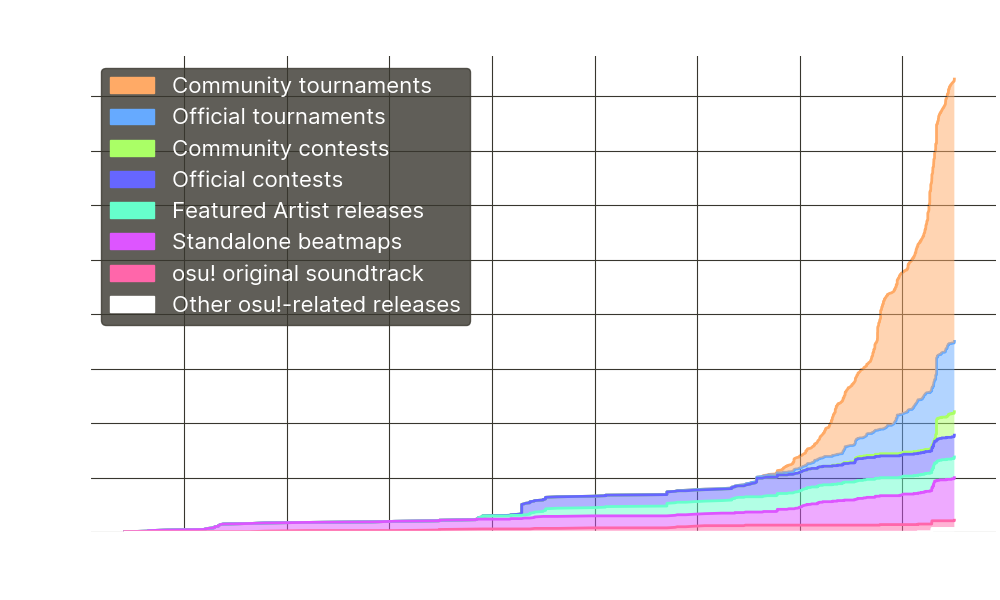
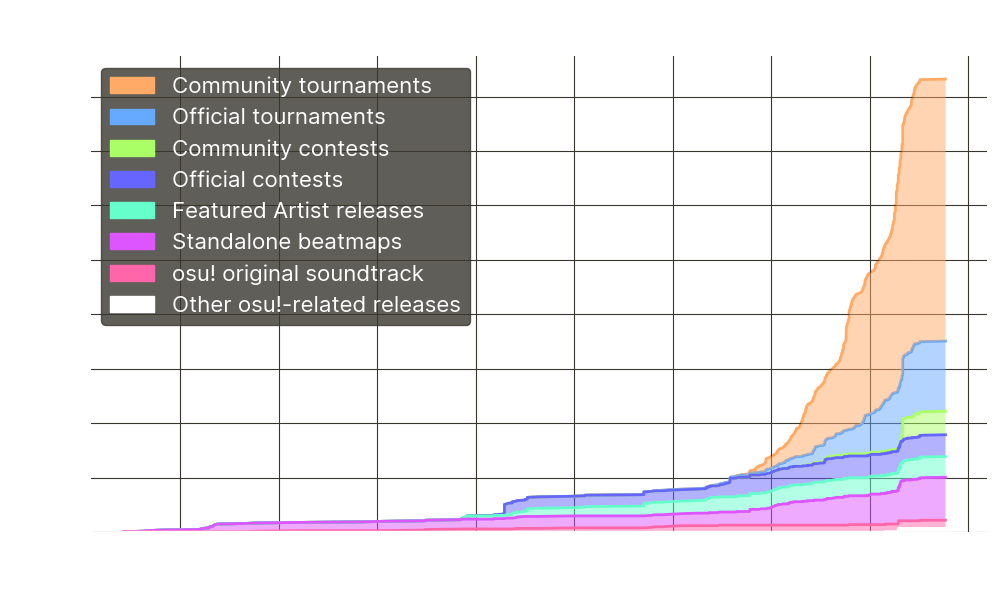
one more track

Changed region(s): [[0.093, 0.12, 0.992, 0.9], [0.372, 0.84, 0.403, 0.87], [0.186, 0.87, 0.217, 0.9]]

diff --git a/wiki/Community/Bespoke_music/en.md b/wiki/Community/Bespoke_music/en.md
@@ -17,7 +17,7 @@ Conversely, all other songs in this list are not officially licensed by the game
 
 ## Statistics
 
-There is currently a total of **831** documented songs made within osu!.
+There is currently a total of **832** documented songs made within osu!.
 
 ![Graph of bespoke music over time](img/bespoke-music-over-time.png?20250107)
 
@@ -219,7 +219,7 @@ These songs are part of the [tomspicy osu! collection 01 EP](https://osu.ppy.sh/
 | [![YouTube](/wiki/shared/link/YouTube.png)](https://www.youtube.com/watch?v=EC0sBNEl7SA "YouTube") | [![osu! original](/wiki/shared/link/original.png)](https://osu.ppy.sh/beatmaps/artists/tracks?artist=Rohi&query=%22Gllensista%22 "osu! original") | Rohi - Gllensista | [#1](https://osu.ppy.sh/beatmapsets/2091797) | Finals FM2 |
 | [![YouTube](/wiki/shared/link/YouTube.png)](https://www.youtube.com/watch?v=NiAblJoN4Aw "YouTube") | [![osu! original](/wiki/shared/link/original.png)](https://osu.ppy.sh/beatmaps/artists/tracks?artist=seleP&query=%22Sara%22 "osu! original") | seleP feat. Lily - Sara | [#1](https://osu.ppy.sh/beatmapsets/2088549) | Semifinals NM3 |
 | [![SoundCloud](/wiki/shared/link/SoundCloud.png)](https://soundcloud.com/sorry-about-my-face/the-last-straw "SoundCloud") [![Bandcamp](/wiki/shared/link/Bandcamp.png)](https://sorryaboutmyface.bandcamp.com/track/the-last-straw "Bandcamp") | [![osu! original](/wiki/shared/link/original.png)](https://osu.ppy.sh/beatmaps/artists/tracks?artist=Sorry%20about%20my%20face&query=%22The%20last%20straw%22 "osu! original") | Sorry about my face - The last straw | [#1](https://osu.ppy.sh/beatmapsets/2088563) | Semifinals HD3 |
-| [![SoundCloud](/wiki/shared/link/SoundCloud.png)](https://soundcloud.com/espitz/novo-horizonte "SoundCloud") [![YouTube](/wiki/shared/link/YouTube.png)](https://www.youtube.com/watch?v=QGH_EGhOdqI "YouTube") [![Spotify](/wiki/shared/link/Spotify.png)](https://open.spotify.com/track/5ZyupZRiVCdwPOzvtSGF68 "Spotify") | [![osu! original](/wiki/shared/link/original.png)](https://osu.ppy.sh/beatmaps/artists/tracks?artist=Sound%20piercer&query=%22NOVO%20HORIZONTE%22 "osu! original") | Sound Piercer "ESPITZ" - NOVO HORIZONTE | [#1](https://osu.ppy.sh/beatmapsets/2091818) | Finals FM3 |
+| [![SoundCloud](/wiki/shared/link/SoundCloud.png)](https://soundcloud.com/espitz/novo-horizonte "SoundCloud") [![YouTube](/wiki/shared/link/YouTube.png)](https://www.youtube.com/watch?v=QGH_EGhOdqI "YouTube") [![Spotify](/wiki/shared/link/Spotify.png)](https://open.spotify.com/track/5ZyupZRiVCdwPOzvtSGF68 "Spotify") | [![osu! original](/wiki/shared/link/original.png)](https://osu.ppy.sh/beatmaps/artists/tracks?artist=Sound%20piercer&query=%22NOVO%20HORIZONTE%22 "osu! original") | Sound piercer "ESPITZ" - NOVO HORIZONTE | [#1](https://osu.ppy.sh/beatmapsets/2091818) | Finals FM3 |
 | [![SoundCloud](/wiki/shared/link/SoundCloud.png)](https://soundcloud.com/sydosys/wandered "SoundCloud") [![Spotify](/wiki/shared/link/Spotify.png)](https://open.spotify.com/album/2LKaW5T8EGlRxzueuxf46C "Spotify") [![Bandcamp](/wiki/shared/link/Bandcamp.png)](https://sydosys.bandcamp.com/track/wandered "Bandcamp") | [![osu! original](/wiki/shared/link/original.png)](https://osu.ppy.sh/beatmaps/artists/tracks?artist=Sydosys&query=%22Wandered%22 "osu! original") | Sydosys - Wandered | [#1](https://osu.ppy.sh/beatmapsets/2085296) | Quarterfinals NM3 |
 |  | [![osu! original](/wiki/shared/link/original.png)](https://osu.ppy.sh/beatmaps/artists/tracks?artist=Toromaru&query=%22Ebb%20Tide%22 "osu! original") | Toromaru - Ebb Tide | [#1](https://osu.ppy.sh/beatmapsets/2082040) | Round of 16 FM1 |
 | [![SoundCloud](/wiki/shared/link/SoundCloud.png)](https://soundcloud.com/zxnx/everythinginthisworldwilleventuallydieandperished "SoundCloud") [![YouTube](/wiki/shared/link/YouTube.png)](https://www.youtube.com/watch?v=wG95dDA3qHE "YouTube") [![Bandcamp](/wiki/shared/link/Bandcamp.png)](https://zxnx.bandcamp.com/track/fana "Bandcamp") | [![osu! original](/wiki/shared/link/original.png)](https://osu.ppy.sh/beatmaps/artists/tracks?artist=ZxNX&query=%22Fana%22 "osu! original") | ZxNX - Fana | [#1](https://osu.ppy.sh/beatmapsets/2095138) | Grand Finals NM4 |
@@ -865,7 +865,7 @@ These songs are part of the [tomspicy osu! collection 01 EP](https://osu.ppy.sh/
 | [![SoundCloud](/wiki/shared/link/SoundCloud.png)](https://soundcloud.com/user-598209031/asdfgadfg "SoundCloud") [![YouTube](/wiki/shared/link/YouTube.png)](https://www.youtube.com/watch?v=G3aznM6DwrU "YouTube") | [![osu! original](/wiki/shared/link/original.png)](https://osu.ppy.sh/beatmaps/artists/tracks?artist=Doomsday&query=%22TGGT%22 "osu! original") | Doomsday - TGGT | [#1](https://osu.ppy.sh/beatmapsets/2198890) | Group Stage NM3 |
 | [![SoundCloud](/wiki/shared/link/SoundCloud.png)](https://soundcloud.com/ludicin/echoes-of-memoria "SoundCloud") [![YouTube](/wiki/shared/link/YouTube.png)](https://www.youtube.com/watch?v=IjUqxihQKRI "YouTube") |  | Ludicin - Echoes of Memoria | [#1](https://osu.ppy.sh/beatmapsets/2214238) | Grand Finals tiebreaker |
 | [![SoundCloud](/wiki/shared/link/SoundCloud.png)](https://soundcloud.com/normalmusiccc/chromatic-dysfunktion "SoundCloud") |  | NormalM - Chromatical Dysfunktion | [#1](https://osu.ppy.sh/beatmapsets/2209723) | Semifinals NM4 |
-| [![YouTube](/wiki/shared/link/YouTube.png)](https://www.youtube.com/watch?v=ka0wBtzeEsI "YouTube") [![Spotify](/wiki/shared/link/Spotify.png)](https://open.spotify.com/album/7eAUDZqZC4iDSdDpHRUHbu "Spotify") |  | seatrus - Metal Globe[^fa] | [#1](https://osu.ppy.sh/beatmapsets/2214194) | Grand Finals NM3 |
+| [![YouTube](/wiki/shared/link/YouTube.png)](https://www.youtube.com/watch?v=ka0wBtzeEsI "YouTube") [![Spotify](/wiki/shared/link/Spotify.png)](https://open.spotify.com/album/7eAUDZqZC4iDSdDpHRUHbu "Spotify") | [![osu! original](/wiki/shared/link/original.png)](https://osu.ppy.sh/beatmaps/artists/tracks?artist=seatrus&query=%22Metal%20Globe%22 "osu! original") | seatrus - Metal Globe | [#1](https://osu.ppy.sh/beatmapsets/2214194) | Grand Finals NM3 |
 | [![SoundCloud](/wiki/shared/link/SoundCloud.png)](https://soundcloud.com/sydosys/coriolis "SoundCloud") [![Bandcamp](/wiki/shared/link/Bandcamp.png)](https://sydosys.bandcamp.com/track/coriolis "Bandcamp") |  | Sydosys - Coriolis[^fa] | [#1](https://osu.ppy.sh/beatmapsets/2202795) | Round of 16 & Quarterfinals FM3 |
 
 #### ![](/wiki/shared/mode/osu.png) [The Roundtable II](https://osu.ppy.sh/community/forums/topics/1789714)
@@ -1884,6 +1884,7 @@ These songs are part of the [tomspicy osu! collection 01 EP](https://osu.ppy.sh/
 |  |  | Ketchup - ProjectUnreality | [#1](https://osu.ppy.sh/beatmapsets/9077) |
 | [![SoundCloud](/wiki/shared/link/SoundCloud.png)](https://soundcloud.com/krimek/mondlichtzauber "SoundCloud") [![YouTube](/wiki/shared/link/YouTube.png)](https://www.youtube.com/watch?v=lPjaITQmIXw "YouTube") [![Spotify](/wiki/shared/link/Spotify.png)](https://open.spotify.com/album/5dm2l9kuKD77RquBGD7C5a "Spotify") [![Bandcamp](/wiki/shared/link/Bandcamp.png)](https://krimek.bandcamp.com/track/mondlichtzauber "Bandcamp") |  | Krimek - Mondlichtzauber[^fa] | [#1](https://osu.ppy.sh/beatmapsets/2012618) |
 | [![SoundCloud](/wiki/shared/link/SoundCloud.png)](https://soundcloud.com/lusumimusic/metamorphosis "SoundCloud") [![Spotify](/wiki/shared/link/Spotify.png)](https://open.spotify.com/track/5PkBYvWou7oUsyvzT3RpW5 "Spotify") [![Bandcamp](/wiki/shared/link/Bandcamp.png)](https://lusumimusic.bandcamp.com/track/metamorphosis "Bandcamp") |  | Lusumi - Metamorphosis[^fa] | [#1](https://osu.ppy.sh/beatmapsets/1759814) |
+|  | [![osu! original](/wiki/shared/link/original.png)](https://osu.ppy.sh/beatmaps/artists/tracks?artist=Midian&query=%22Coagulate%22 "osu! original") | Midian - Coagulate | [#1](https://osu.ppy.sh/beatmapsets/2214980) |
 |  | [![osu! original](/wiki/shared/link/original.png)](https://osu.ppy.sh/beatmaps/artists/tracks?artist=Midian&query=%22Heat%20Of%20The%20Moment%22 "osu! original") | Midian - Heat Of The Moment | [#1](https://osu.ppy.sh/beatmapsets/2199250) |
 |  | [![osu! original](/wiki/shared/link/original.png)](https://osu.ppy.sh/beatmaps/artists/tracks?artist=Midian&query=%22Malformation%22 "osu! original") | Midian - Malformation | [#1](https://osu.ppy.sh/beatmapsets/2186769) |
 |  | [![osu! original](/wiki/shared/link/original.png)](https://osu.ppy.sh/beatmaps/artists/tracks?artist=Midian&query=%22Mythological%20Boundaries%22 "osu! original") | Midian - Mythological Boundaries | [#1](https://osu.ppy.sh/beatmapsets/2237488) |
